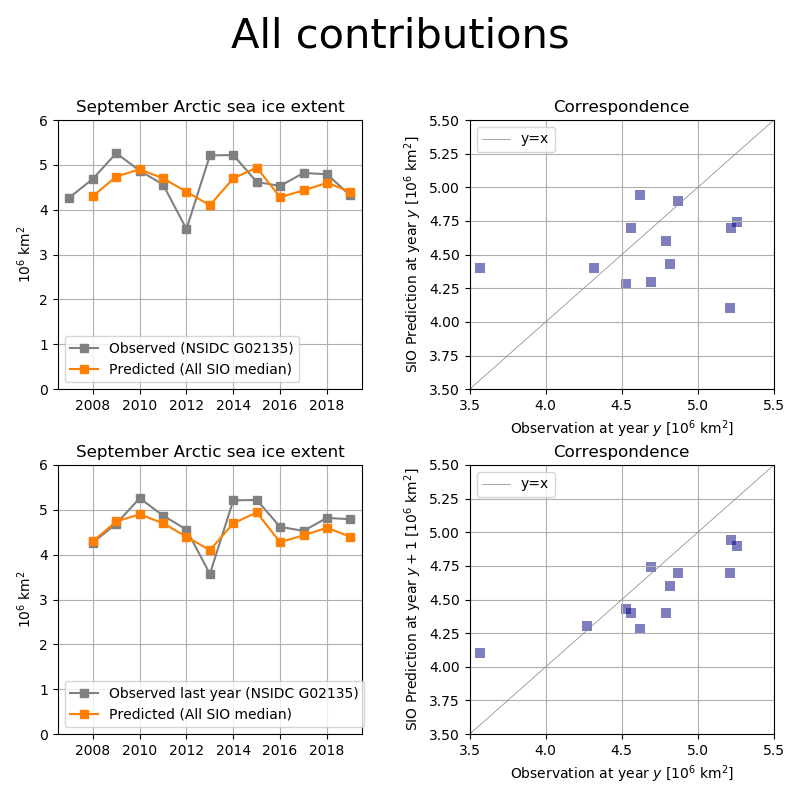
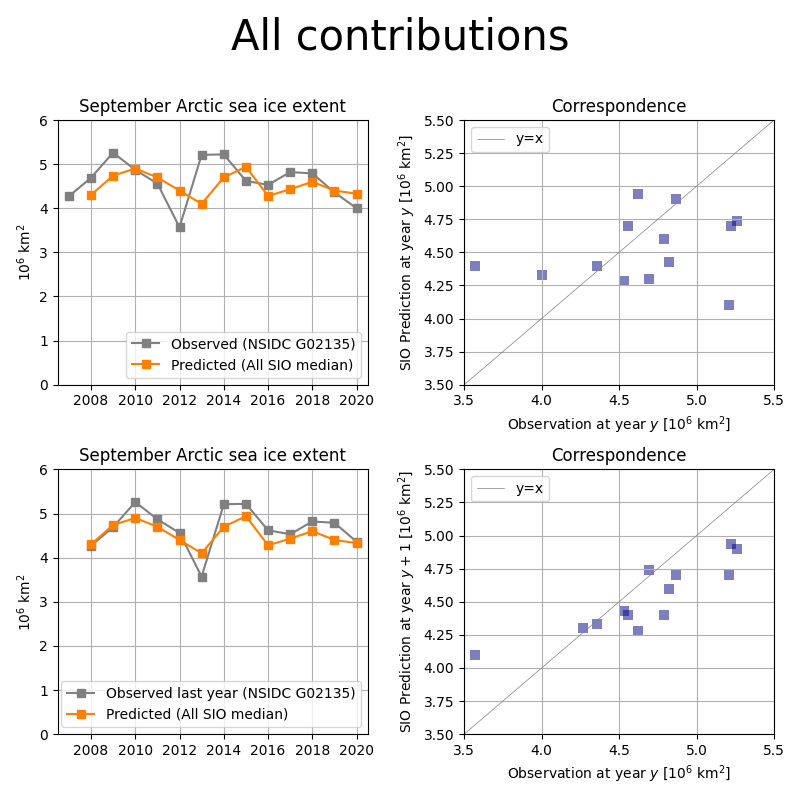
mac changes

diff --git a/sio_predicting_predictions.py b/sio_predicting_predictions.py
@@ -21,7 +21,7 @@ import calendar
 
 # Add SIO data (June submissions)
 methname = ["All",  "Dynamical", "Statistical", "Heuristic", "Mixed"]
-method = 4
+method = 0
 
 #       Year   obs   [ALL,    DYN,    STAT,   HEUR,   MIX]
 data = [
@@ -37,10 +37,10 @@ data = [
         [2016, 4.53, [4.28,   4.58,   4.28,   4.0,    np.nan]],
         [2017, 4.82, [4.43,   4.39,   4.69,   4.08,   4.1   ]],
         [2018, 4.79, [4.6 ,   4.78,   4.41,   4.31,   5.04  ]],
-        [2019, 4.32, [4.40,   4.56,   4.4 ,   4.09,   np.nan]], # Based on Betsy's Excel sheet
-        [2020, np.nan, [4.33, 4.405,  4.26,   4.35,   np.nan]]
+        [2019, 4.36, [4.40,   4.56,   4.4 ,   4.09,   np.nan]], # Based on Betsy's Excel sheet
+        [2020, 4.00, [4.33, 4.405,  4.26,   4.35,   np.nan  ]],
+        #[2021, np.nan,[np.nan, np.nan, np.nan, np.nan, np.nan]] 
        ]
-
 years = [d[0] for d in data]
 ssies = [d[1] for d in data]
 preds = [d[2][method] for d in data] 
@@ -58,7 +58,7 @@ ax1.set_title("September Arctic sea ice extent")
 ax1.plot(years, ssies, marker = "s", color = [0.5, 0.5, 0.5], label = "Observed (NSIDC G02135)")
 ax1.plot(years, preds, marker = "s", color = [1.0, 0.5, 0.0], label = "Predicted (" + methname[method] + " SIO median)")
 ax1.set_xlim(years[0] - 0.5, years[-1] + 0.5)
-ax1.legend(loc = "bottom")
+ax1.legend(loc = "lower right")
 
 ax2 = ax[0, 1]
 ax2.grid()
@@ -79,7 +79,7 @@ ax3.set_title("September Arctic sea ice extent")
 ax3.plot(years[1:], ssies[:-1], marker = "s", color = [0.5, 0.5, 0.5], label = "Observed last year (NSIDC G02135)")
 ax3.plot(years, preds, marker = "s", color = [1.0, 0.5, 0.0], label = "Predicted (" + methname[method] + " SIO median)")
 ax3.set_xlim(years[0] - 0.5, years[-1] + 0.5)
-ax3.legend(loc = "bottom")
+ax3.legend(loc = "lower right")
 
 
 ax4 = ax[1, 1]
@@ -157,7 +157,7 @@ ax.legend()
 ynew = ahat * xnew + bhat
 snew = np.sqrt(se2 * (1 + 1 / n + (xnew - xbar) ** 2 / np.sum(xtil ** 2)))
 
-ax.set_title("Prediction of 2020 " + methname[method] + " SIO median:\n" + str(np.round(ynew, 2)) + " +/- " \
+ax.set_title("Prediction of 2021 " + methname[method] + " SIO median:\n" + str(np.round(ynew, 2)) + " +/- " \
              + str(np.round(zs[-1] * snew, 2)) + " million km²")
 plt.tight_layout()
 plt.savefig("fig2_" + methname[method] + ".png")
